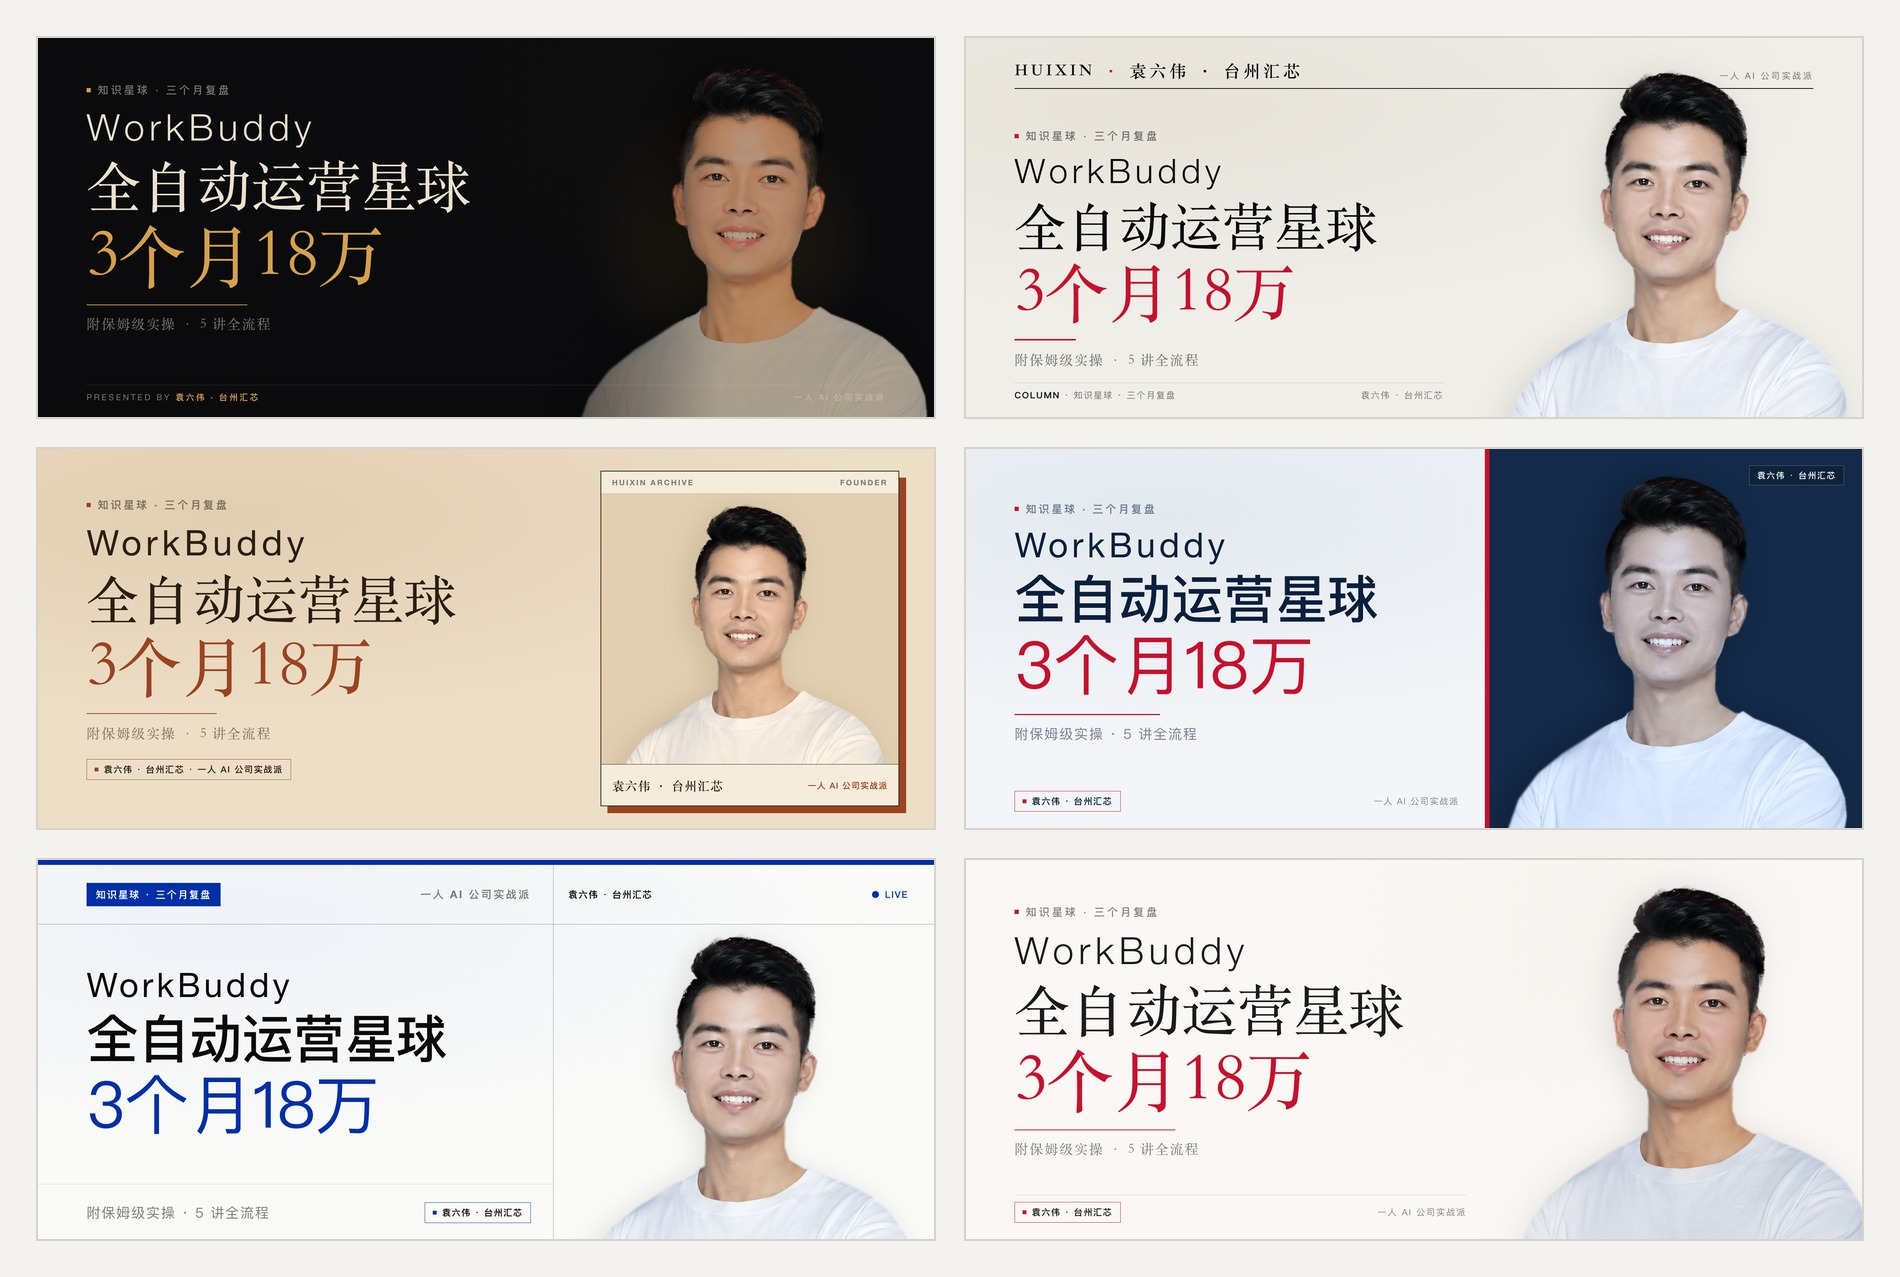
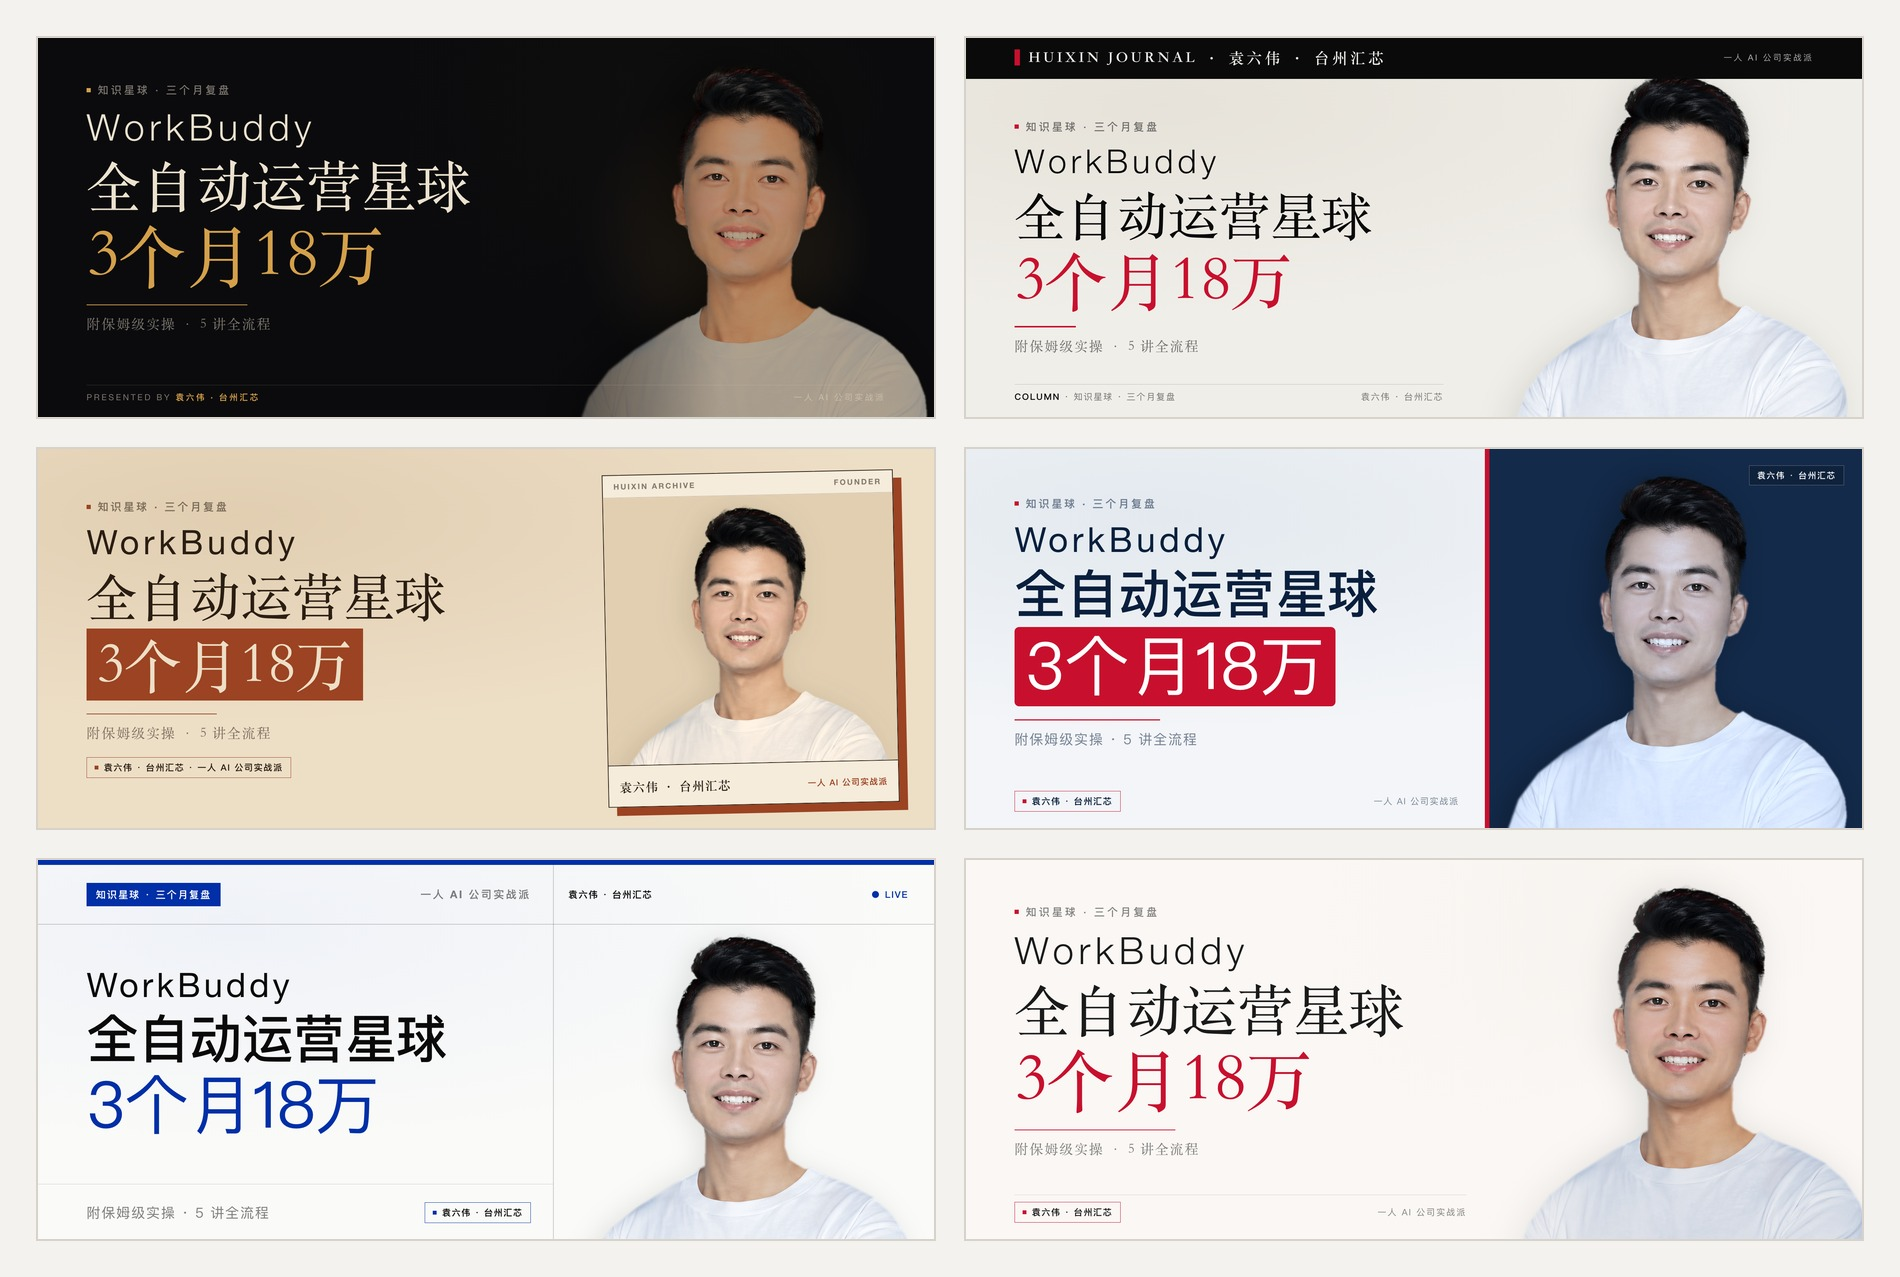
feat: high-contrast 6 cover layouts and cache-busting showcase v3

diff --git a/skills/AI工具评测公众号/wechat-cover-skill/scripts/render_cover_themes.py b/skills/AI工具评测公众号/wechat-cover-skill/scripts/render_cover_themes.py
@@ -291,34 +291,35 @@ def build_html(brief: dict, theme_key: str, portrait_uri: str, psize=(817, 883))
     <span class="strip-tag">{b['ip_tag']}</span>
   </div>"""
 
-    # 2) masthead：大刊报头 + 人物头顶破框叠压刊头细线
+    # 2) masthead：大刊报头（满宽深墨黑刊头条 + 人物头顶破框叠压）
     elif layout == "masthead":
-        p_h = 980
+        p_h = 960
         p_w = round(p_h * pw_ratio)
         p_left = W - p_w - 40
-        p_top = 86  # 刻意低于顶部 136px 报头线以下一点，使头部轻微破框叠压报头线
-        titles = _titles_html(b["lines"], t["weight"], 136, 168)
+        p_top = 92
+        titles = _titles_html(b["lines"], t["weight"], 134, 166)
         css = _base_css(t, theme_key) + f"""
-.masthead{{position:absolute;left:{TEXT_X}px;right:{TEXT_X}px;top:52px;height:86px;
-  border-bottom:2px solid {t['ink']};display:flex;justify-content:space-between;align-items:flex-end;padding-bottom:16px;z-index:1}}
-.mast-title{{font-family:{SERIF};font-size:44px;font-weight:700;letter-spacing:.18em;color:{t['ink']}}}
-.mast-title em{{font-style:normal;color:{t['accent']}}}
-.mast-meta{{font-family:{t['small_family']};font-size:23px;letter-spacing:.20em;color:{t['muted']};text-transform:uppercase}}
+.masthead{{position:absolute;left:0;right:0;top:0;height:112px;background:{t['ink']};
+  padding:0 {TEXT_X}px;display:flex;justify-content:space-between;align-items:center;z-index:1}}
+.mast-title{{font-family:{SERIF};font-size:40px;font-weight:700;letter-spacing:.18em;color:{t['paper']};
+  display:flex;align-items:center;gap:22px}}
+.mast-title .red-bar{{width:14px;height:42px;background:{t['accent']};display:inline-block}}
+.mast-meta{{font-family:{t['small_family']};font-size:22px;letter-spacing:.20em;color:rgba(241,239,234,.72);text-transform:uppercase}}
 .portrait{{position:absolute;left:{p_left}px;top:{p_top}px;width:{p_w}px;height:{p_h}px;
   object-fit:contain;object-position:bottom;filter:{SHADOW[theme_key]};z-index:2}}
-.txt{{position:absolute;left:{TEXT_X}px;top:210px;width:1160px;height:690px;z-index:3;
+.txt{{position:absolute;left:{TEXT_X}px;top:170px;width:1160px;height:710px;z-index:3;
   display:flex;flex-direction:column;justify-content:center}}
 .kicker{{margin-bottom:26px}}
-.brand{{font-size:88px;margin-bottom:16px}}
-.rule{{width:160px;height:4px;background:{t['accent']};margin:34px 0 24px}}
-.bottom-bar{{position:absolute;left:{TEXT_X}px;bottom:46px;width:1120px;border-top:1px solid {t['hair']};
+.brand{{font-size:86px;margin-bottom:16px}}
+.rule{{width:160px;height:4px;background:{t['accent']};margin:32px 0 22px}}
+.bottom-bar{{position:absolute;left:{TEXT_X}px;bottom:42px;width:1120px;border-top:1px solid {t['hair']};
   padding-top:16px;display:flex;justify-content:space-between;align-items:center;z-index:3;
   font-family:{SANS};font-size:23px;letter-spacing:.12em;color:{t['muted']}}}
 .bottom-bar strong{{color:{t['ink']};font-weight:600}}
 """
         body = f"""
   <div class="masthead">
-    <div class="mast-title">HUIXIN <em>·</em> {b['author']}</div>
+    <div class="mast-title"><i class="red-bar"></i><span>HUIXIN JOURNAL · {b['author']}</span></div>
     <div class="mast-meta">{b['ip_tag']}</div>
   </div>
   <img class="portrait" src="{portrait_uri}">
@@ -331,28 +332,30 @@ def build_html(brief: dict, theme_key: str, portrait_uri: str, psize=(817, 883))
   </div>
   <div class="bottom-bar"><span><strong>COLUMN</strong> · {b['kicker']}</span><span>{b['author']}</span></div>"""
 
-    # 3) archive-card：左侧大留白 + 右侧 1px 细框人物档案卡片 + IP 签名底栏
+    # 3) archive-card：左侧高亮反白结论 + 右侧微倾档案相框卡片
     elif layout == "archive-card":
         card_bg = t.get("card_bg", "#FFFFFF")
         p_h = 770
         p_w = round(p_h * pw_ratio)
-        titles = _titles_html(b["lines"], t["weight"], 138, 170)
+        titles = _titles_html(b["lines"], t["weight"], 134, 152)
         css = _base_css(t, theme_key) + f"""
 .txt{{position:absolute;left:{TEXT_X}px;top:0;width:1140px;height:{H}px;
   display:flex;flex-direction:column;justify-content:center}}
-.kicker{{margin-bottom:32px}}
-.brand{{font-size:92px;margin-bottom:16px}}
-.rule{{width:340px;height:2px;background:{t['accent']};margin:34px 0 24px}}
-.sub{{margin-bottom:44px}}
-.frame{{position:absolute;right:96px;top:62px;width:780px;height:876px;background:{card_bg};
-  border:2px solid {t['ink']};box-shadow:18px 18px 0 {t['accent']};overflow:hidden}}
+.kicker{{margin-bottom:28px}}
+.brand{{font-size:88px;margin-bottom:14px}}
+.tl.accent span{{display:inline-block;background:{t['accent']};color:{t['accent_on']};
+  padding:8px 26px 12px;margin-top:10px}}
+.rule{{width:340px;height:2px;background:{t['accent']};margin:34px 0 22px}}
+.sub{{margin-bottom:40px}}
+.frame{{position:absolute;right:104px;top:66px;width:760px;height:868px;background:{card_bg};
+  border:2.5px solid {t['ink']};box-shadow:22px 22px 0 {t['accent']};transform:rotate(-1.2deg);overflow:hidden}}
 .frame-top{{height:58px;border-bottom:1px solid {t['hair']};padding:0 28px;
   display:flex;justify-content:space-between;align-items:center;
   font-family:{t['small_family']};font-size:20px;font-weight:600;letter-spacing:.18em;color:{t['muted']}}}
-.frame-body{{position:relative;height:706px;overflow:hidden;background:{t['paper2']}}}
+.frame-body{{position:relative;height:698px;overflow:hidden;background:{t['paper2']}}}
 .portrait{{position:absolute;left:50%;transform:translateX(-50%);top:24px;width:{p_w}px;height:{p_h}px;
   object-fit:contain;object-position:bottom;filter:{SHADOW[theme_key]}}}
-.frame-foot{{height:110px;border-top:1.5px solid {t['ink']};padding:0 28px;background:{card_bg};
+.frame-foot{{height:110px;border-top:2px solid {t['ink']};padding:0 28px;background:{card_bg};
   display:flex;justify-content:space-between;align-items:center}}
 .frame-name{{font-family:{SERIF};font-size:32px;font-weight:700;color:{t['ink']};letter-spacing:.06em}}
 .frame-role{{font-family:{SANS};font-size:22px;color:{t['accent']};font-weight:600;letter-spacing:.08em}}
@@ -438,6 +441,8 @@ def build_html(brief: dict, theme_key: str, portrait_uri: str, psize=(817, 883))
   display:flex;flex-direction:column;justify-content:center}}
 .kicker{{margin-bottom:28px}}
 .brand{{font-size:90px;margin-bottom:16px}}
+.tl.accent span{{display:inline-block;background:{t['accent']};color:{t['accent_on']};
+  padding:8px 28px 12px;margin-top:8px;border-radius:12px}}
 .rule{{width:380px;height:3px;background:{t['accent']};margin:34px 0 24px}}
 .strip{{position:absolute;left:{TEXT_X}px;bottom:48px;width:1160px;display:flex;justify-content:space-between;align-items:center}}
 .strip-note{{font-family:{SANS};font-size:23px;color:{t['muted']};letter-spacing:.10em}}
@@ -460,13 +465,14 @@ def build_html(brief: dict, theme_key: str, portrait_uri: str, psize=(817, 883))
     <span class="strip-note">{b['ip_tag']}</span>
   </div>"""
 
-    # 6) cinema：电影宽银幕 + 暗底聚光 + 底部主创铭牌
+    # 6) cinema：电影宽银幕 + 暗底聚光 + 上下电影细金框 + 底部主创铭牌
     else:
         p_h = 1010
         p_w = round(p_h * pw_ratio)
         p_left = W - p_w - 20
         titles = _titles_html(b["lines"], t["weight"], 144, 178)
         css = _base_css(t, theme_key) + f"""
+.letterbox-top{{position:absolute;left:{TEXT_X}px;right:{TEXT_X}px;top:44px;height:1px;background:{t['hair']}}}
 .spot{{position:absolute;right:140px;top:120px;width:820px;height:820px;border-radius:50%;
   background:radial-gradient(circle, rgba(212,160,74,.20) 0%, transparent 66%);pointer-events:none}}
 .portrait{{position:absolute;left:{p_left}px;top:64px;width:{p_w}px;height:{p_h}px;
@@ -485,6 +491,7 @@ def build_html(brief: dict, theme_key: str, portrait_uri: str, psize=(817, 883))
 .credits strong{{color:{t['accent']};font-weight:600}}
 """
         body = f"""
+  <div class="letterbox-top"></div>
   <div class="spot"></div>
   <img class="portrait" src="{portrait_uri}">
   <div class="tint"></div>

diff --git a/README.md b/README.md
@@ -115,7 +115,7 @@ https://github.com/sixwei2025/ai-tool-review-wechat-skill
 彻底告别廉价培训班海报式的粗金描边字与杂乱网页底图，内置与自动化公众号完全同源的 `render_cover_themes.py`（Playwright + Chrome 渲染，自动检测 `1334px` 1:1 裁切安全线与防压脸检查）：
 
 <p align="center">
-  <img src="assets/showcase/00-cover-six.jpg" alt="六套高客单价杂志风封面总览" width="100%" />
+  <img src="assets/showcase/00-cover-layouts-v3.jpg" alt="六套高客单价杂志风封面总览" width="100%" />
 </p>
 
 | 封面主题 ID | 中文名 | 默认构图版式（`--layout`） | 最佳评测场景 |
